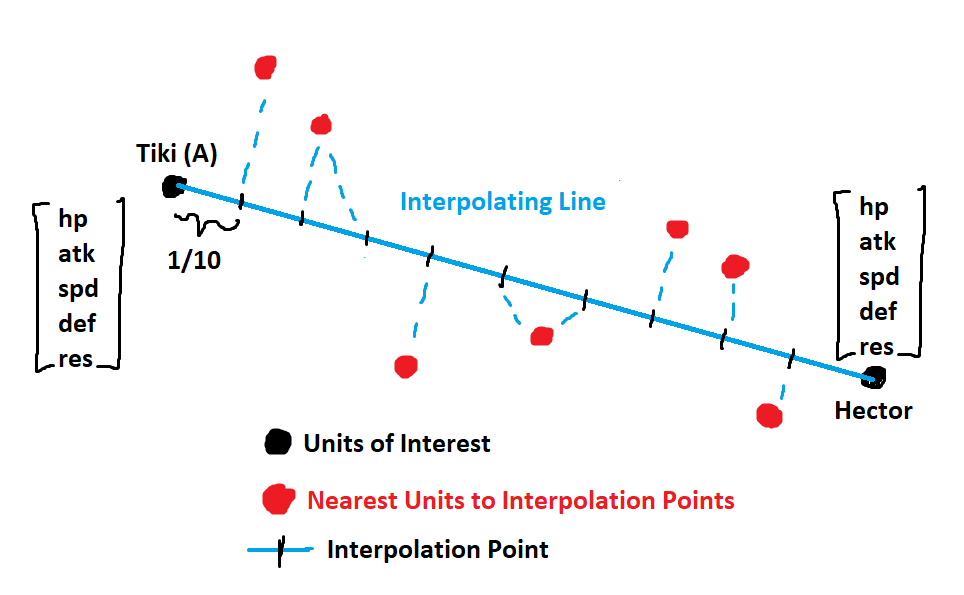
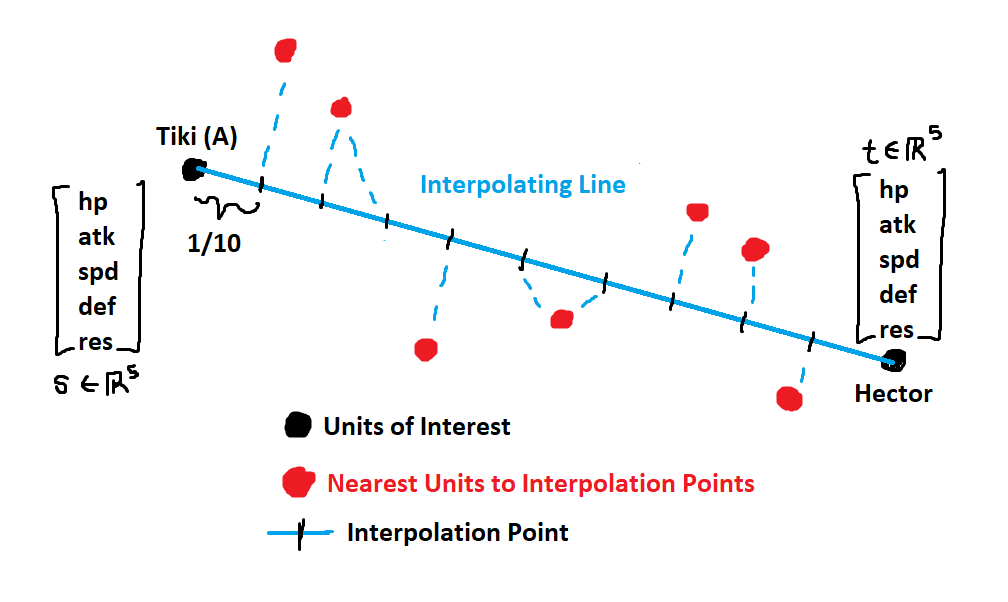
another update to the image, and some additional text added

diff --git a/README.md b/README.md
@@ -2,6 +2,8 @@ An updated version of the FEH Unit Comparison, the repository for that can be fo
 
 ![Unit Interpolation Figure 1](assets/unit_interpolation_figure_1.png)
 
+The figure above is a visualization of what this repository does. We take two FEH Units, construct an interpolating line between said units (treated as points based on their stats), and then find the nearest unit to said interpolation point based on a given metric. Nearest neighbor computation is sped up through the use of a KDTree data structure. 
+
 ![Interpolating between Lon'Qu and Winter Edelgard. The nearest units we pass by are: Chad, Nils, Echida, Valentine's Eliwood, Halloween Kurthnaga, Ascended Eliwood, Halloween Corrin, and Summer Edelgard.](./examples/lonqu_to_winter_edelgard.gif "Lon'Qu to Winter Edelgard")
 
 ![Interpolating between Camus and Sirius. We only pass by one unit, being Seigbert.](./examples/camus_to_sirius.gif "Camus to Sirius")
